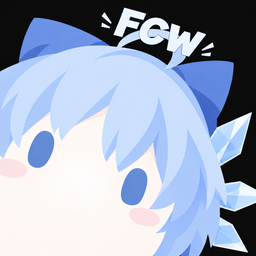
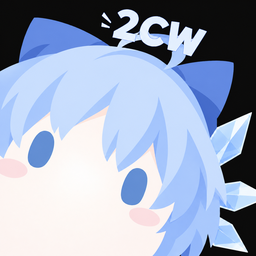
Rename to TwoStepCreateWorld, fix empty world list loading, v1.1.0

diff --git a/common/src/main/java/dev/twostepcreateworld/mixin/WorldSelectionListMixin.java b/common/src/main/java/dev/twostepcreateworld/mixin/WorldSelectionListMixin.java
@@ -1,0 +1,48 @@
+package dev.twostepcreateworld.mixin;
+
+import java.util.List;
+
+import net.minecraft.client.gui.screens.Screen;
+import net.minecraft.client.gui.screens.worldselection.SelectWorldScreen;
+import net.minecraft.client.gui.screens.worldselection.WorldSelectionList;
+import net.minecraft.world.level.storage.LevelSummary;
+import org.spongepowered.asm.mixin.Mixin;
+import org.spongepowered.asm.mixin.Shadow;
+import org.spongepowered.asm.mixin.injection.At;
+import org.spongepowered.asm.mixin.injection.Inject;
+import org.spongepowered.asm.mixin.injection.callback.CallbackInfo;
+
+/**
+ * Keeps the world list visible when there is no world to select.
+ * <p>
+ * Vanilla opens the create-world screen from {@code handleNewLevels} when the list is empty,
+ * and the loading header is only removed by that screen transition. Instead of letting the
+ * automatic transition happen, the empty list is cleared here so the player stays on the
+ * world list without an endless "Loading World List" spinner.
+ */
+@Mixin(WorldSelectionList.class)
+public abstract class WorldSelectionListMixin {
+
+    @Shadow
+    private Screen screen;
+
+    @Shadow
+    private List<LevelSummary> currentlyDisplayedLevels;
+
+    @Shadow
+    protected abstract void clearEntries();
+
+    @Inject(method = "handleNewLevels", at = @At("HEAD"), cancellable = true)
+    private void twostepcreateworld$showEmptyWorldList(List<LevelSummary> levels, CallbackInfo ci) {
+        if (levels == null || !levels.isEmpty()) {
+            return;
+        }
+        if (!(this.screen instanceof SelectWorldScreen)) {
+            return;
+        }
+
+        this.clearEntries();
+        this.currentlyDisplayedLevels = levels;
+        ci.cancel();
+    }
+}

diff --git a/fabric/src/main/java/dev/twostepcreateworld/fabric/TwoStepCreateWorldFabric.java b/fabric/src/main/java/dev/twostepcreateworld/fabric/TwoStepCreateWorldFabric.java
@@ -1,8 +1,8 @@
-package dev.fasterchooseworld.fabric;
+package dev.twostepcreateworld.fabric;
 
 import net.fabricmc.api.ClientModInitializer;
 
-public final class FasterChooseWorldFabric implements ClientModInitializer {
+public final class TwoStepCreateWorldFabric implements ClientModInitializer {
 
     @Override
     public void onInitializeClient() {

diff --git a/neoforge/src/main/java/dev/twostepcreateworld/neoforge/TwoStepCreateWorldNeoForge.java b/neoforge/src/main/java/dev/twostepcreateworld/neoforge/TwoStepCreateWorldNeoForge.java
@@ -1,0 +1,11 @@
+package dev.twostepcreateworld.neoforge;
+
+import net.neoforged.fml.common.Mod;
+
+@Mod("twostepcreateworld")
+public final class TwoStepCreateWorldNeoForge {
+
+    public TwoStepCreateWorldNeoForge() {
+        // Behaviour is implemented by TitleScreenMixin.
+    }
+}

diff --git a/common/src/main/java/dev/twostepcreateworld/mixin/TitleScreenMixin.java b/common/src/main/java/dev/twostepcreateworld/mixin/TitleScreenMixin.java
@@ -1,4 +1,4 @@
-package dev.fasterchooseworld.mixin;
+package dev.twostepcreateworld.mixin;
 
 import net.minecraft.client.Minecraft;
 import net.minecraft.client.gui.components.Button;

diff --git a/common/src/main/java/dev/twostepcreateworld/mixin/MinecraftMixin.java b/common/src/main/java/dev/twostepcreateworld/mixin/MinecraftMixin.java
@@ -1,4 +1,4 @@
-package dev.fasterchooseworld.mixin;
+package dev.twostepcreateworld.mixin;
 
 import net.minecraft.client.Minecraft;
 import net.minecraft.client.gui.screens.Screen;

diff --git a/README.md b/README.md
@@ -1,5 +1,15 @@
-# Faster Choose World
+# TwoStepCreateWorld
 
 点击「单人游戏」时始终进入世界列表界面，即使当前没有任何世界。
 
 同时支持 Fabric 与 NeoForge，兼容 Minecraft 26.1、26.1.1 和 26.1.2。
+
+若有旧版本需要，请优先查看模组 [F**k Create World](https://www.curseforge.com/minecraft/mc-mods/f-k-create-world) 与 [OWorld2Create](https://www.curseforge.com/minecraft/mc-mods/oworld2create) 是否支持，如果不支持，请提出issue
+
+# TwoStepCreateWorld
+
+Clicking “Singleplayer” always opens the world list screen, even when there are currently no worlds.
+
+It supports both Fabric and NeoForge, and is compatible with Minecraft 26.1, 26.1.1, and 26.1.2.
+
+If you need an older version, please first check whether the mods [F\*\*k Create World](https://www.curseforge.com/minecraft/mc-mods/f-k-create-world) and [OWorld2Create](https://www.curseforge.com/minecraft/mc-mods/oworld2create) support it. If they don’t, please open an issue.
